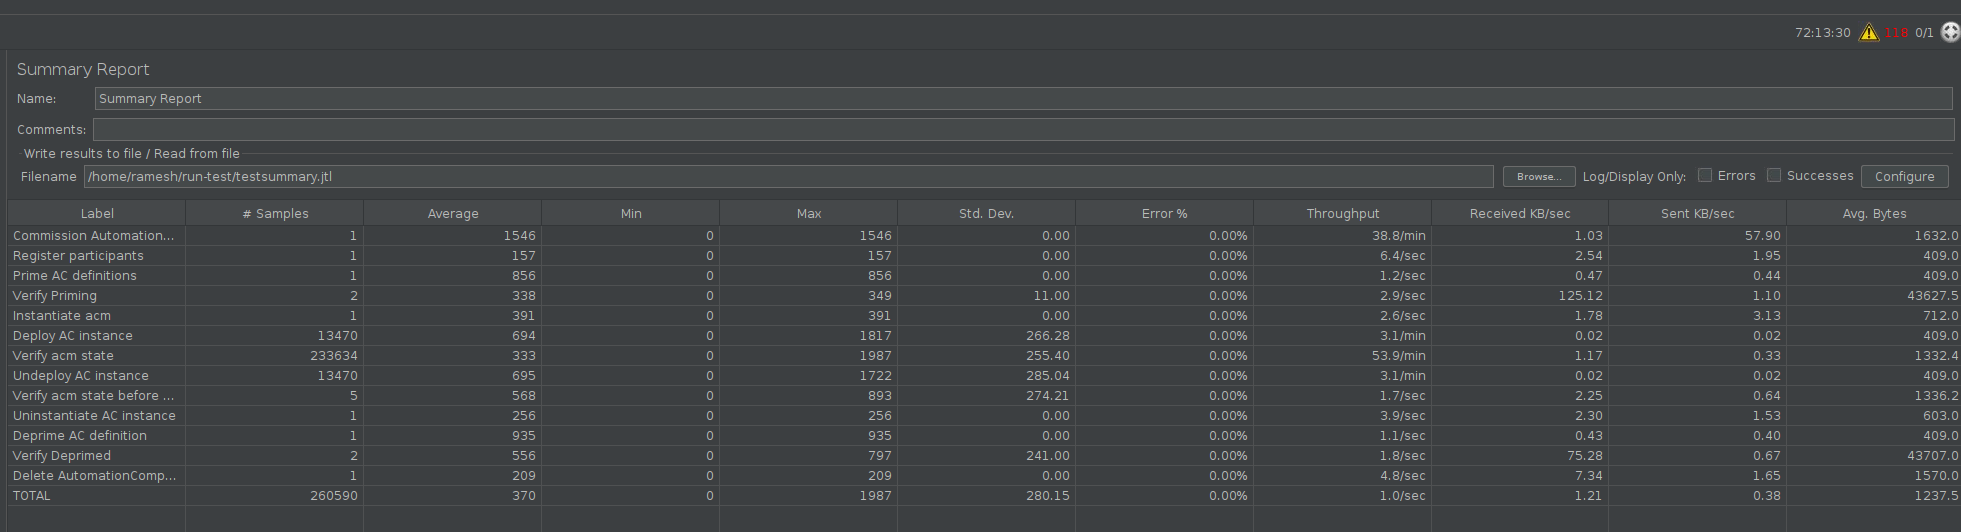
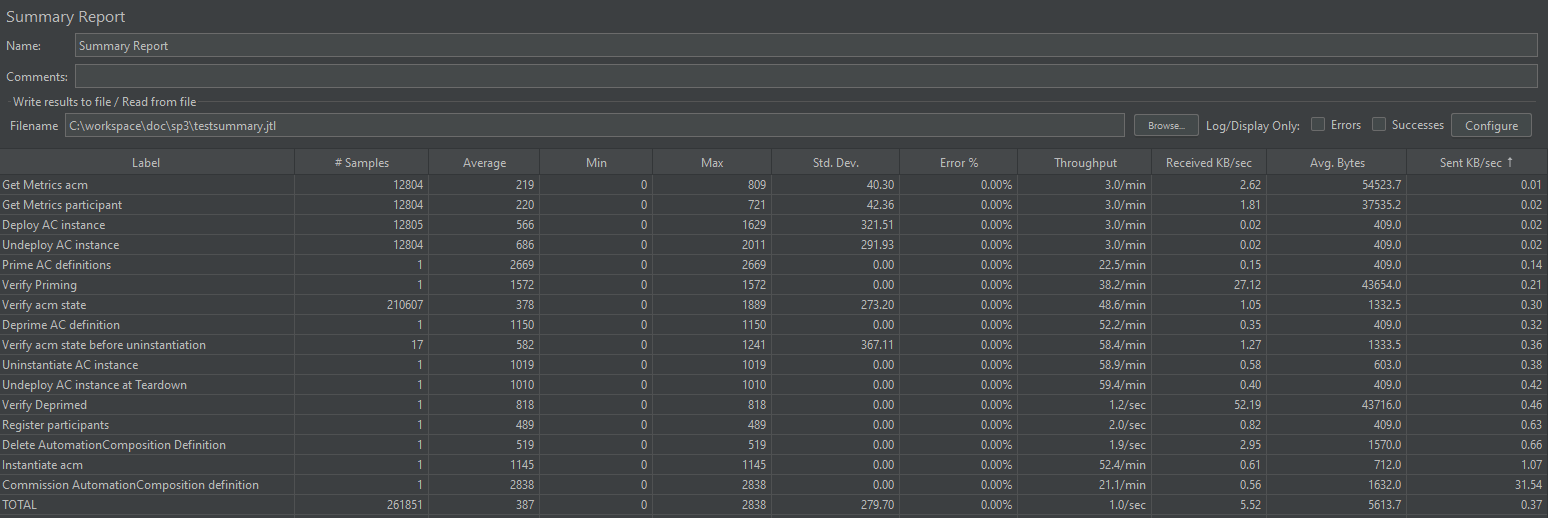
Update docs for S3P testing Clamp
Issue-ID: POLICY-4982

diff --git a/docs/development/devtools/testing/s3p/clamp-s3p.rst b/docs/development/devtools/testing/s3p/clamp-s3p.rst
@@ -37,7 +37,7 @@ The common setup for performance and stability tests is now automated - being ca
 
 Clone the policy-clamp repo to access the test scripts
 
-.. code-block:: bash
+.. code-block:: sh
 
     git clone https://gerrit.onap.org/r/policy/clamp
 
@@ -69,9 +69,9 @@ Run Test
 
 The code in the setup section also serves to run the tests. Just one execution needed to do it all.
 
-.. code-block:: bash
+.. code-block:: sh
 
-    bash run-s3p-test.sh run stability
+    ./run-s3p-test.sh run stability
 
 Once the test execution is completed, the results are present in the **automate-performance/s3pTestResults.jtl** file.
 
@@ -89,24 +89,28 @@ Stability test plan was triggered for 72 hours.
 =======================  =================  ==================  ==================================
 **Total # of requests**  **Success %**      **Error %**         **Average time taken per request**
 =======================  =================  ==================  ==================================
-260590                    100.00 %           0.00 %              997 ms
+261852                    100.00 %           0.00 %              387.126 ms
 =======================  =================  ==================  ==================================
 
 **ACM component Setup**
 
-==============================================  ============================================================    ===========================================
-**NAME**                                        **IMAGE**                                                       **PORT**
-==============================================  ============================================================    ===========================================
- policy-clamp-runtime-acm-5c6d8fbfb-jz8rb       nexus3.onap.org:10001/onap/policy-clamp-runtime-acm:latest      30007/tcp
- policy-clamp-ac-pf-ppnt-55c4cb99f4-spvng       nexus3.onap.org:10001/onap/policy-clamp-ac-pf-ppnt:latest       30008/tcp
- policy-api-58cb45fc9b-ff5md                    nexus3.onap.org:10001/onap/policy-api:latest                    30002/tcp
- policy-clamp-ac-http-ppnt-7b99cbfbf8-d4w9v     nexus3.onap.org:10001/onap/policy-clamp-ac-http-ppnt:latest     30009/tcp
- policy-clamp-ac-k8s-ppnt-6d854cc8b6-twdkh      nexus3.onap.org:10001/onap/policy-clamp-ac-k8s-ppnt:latest      30010/tcp
- policy-models-simulator-bcd494d87-bfg6g        nexus3.onap.org:10001/onap/policy-models-simulator:latest       30904/tcp
- mariadb-galera-0                               nexus3.onap.org:10001/mariadb:10.5.8                            3306/tcp
- policy-pap-847d89997d-x9h99                    nexus3.onap.org:10001/onap/policy-pap:latest                    30003/tcp
- policy-apex-pdp-0                              nexus3.onap.org:10001/onap/policy-apex-pdp:latest               6969/tcp
-==============================================  ============================================================    ===========================================
+==============================================  ==================================================================  ====================
+**NAME**                                        **IMAGE**                                                            **PORT**
+==============================================  ==================================================================  ====================
+ zookeeper-deployment-7ff87c7fcc-ptkwv          confluentinc/cp-zookeeper:latest                                     2181/TCP
+ kafka-deployment-5c87d497b-2jv27               confluentinc/cp-kafka:latest                                         9092/TCP
+ policy-models-simulator-6947667bdc-v4czs       nexus3.onap.org:10001/onap/policy-models-simulator:latest            3904:30904/TCP
+ prometheus-f66f97b6-rknvp                      nexus3.onap.org:10001/prom/prometheus:latest                         9090:30909/TCP
+ mariadb-galera-0                               nexus3.onap.org:10001/bitnami/mariadb-galera:10.5.8                  3306/TCP
+ policy-apex-pdp-0                              nexus3.onap.org:10001/onap/policy-apex-pdp:3.1.3-SNAPSHOT            6969:30001/TCP
+ policy-clamp-ac-http-ppnt-7d747b5d98-4phjf     nexus3.onap.org:10001/onap/policy-clamp-ac-http-ppnt7.1.3-SNAPSHOT   8084/TCP
+ policy-clamp-ac-sim-ppnt-97f487577-4p7ks       nexus3.onap.org:10001/onap/policy-clamp-ac-sim-ppnt7.1.3-SNAPSHOT    6969/TCP
+ policy-clamp-ac-k8s-ppnt-6bbd86bbc6-csknn      nexus3.onap.org:10001/onap/policy-clamp-ac-k8s-ppnt7.1.3-SNAPSHOT    8083:30443/TCP
+ policy-clamp-ac-pf-ppnt-5fcbbcdb6c-twkxw       nexus3.onap.org:10001/onap/policy-clamp-ac-pf-ppnt7.1.3-SNAPSHOT     6969:30008/TCP
+ policy-clamp-runtime-acm-66b5d6b64-4gnth       nexus3.onap.org:10001/onap/policy-clamp-runtime-acm7.1.3-SNAPSHOT    6969:30007/TCP
+ policy-pap-f7899d4cd-7m898                     nexus3.onap.org:10001/onap/policy-pap:3.1.3-SNAPSHOT                 6969:30003/TCP
+ policy-api-7f7d995b4-ckb84                     nexus3.onap.org:10001/onap/policy-api:3.1.3-SNAPSHOT                 6969:30002/TCP
+==============================================  ==================================================================  ====================
 
 
 
@@ -124,14 +128,6 @@ Stability test plan was triggered for 72 hours.
 
 .. image:: clamp-s3p-results/acm_stability_table.png
 
-**Memory and CPU usage**
-
-The memory and CPU usage can be monitored by running "docker stats" command.
-
-Memory and CPU usage after test execution:
-
-.. image:: clamp-s3p-results/Stability_after_stats.png
-
 
 Performance Test of acm components
 ++++++++++++++++++++++++++++++++++
@@ -146,30 +142,45 @@ Setup Details
 
 We can setup the environment and execute the tests like this from the **clamp/testsuites** directory
 
-.. code-block:: bash
+.. code-block:: sh
 
-    bash run-s3p-test.sh run performance
+    ./run-s3p-test.sh run performance
 
-This runs for 2 hours. Test results are present in the **testsuites/automate-performance/s3pTestResults.jtl**
+Test results are present in the **testsuites/automate-performance/s3pTestResults.jtl**
 directory. Logs are present for jmeter in **testsuites/automate-performance/jmeter.log** and
 **testsuites/automated-performance/nohup.out**
 
 Test Plan
 ---------
 
-Performance test plan is the same as the stability test plan above except for the few differences listed below.
+The Performance test ran the following steps sequentially by 5 threaded users. Any user will create 100 compositions/instances.
 
-- Increase the number of threads up to 5 (simulating 5 users' behaviours at the same time).
-- Reduce the test time to 2 hours.
+- **SetUp** - SetUp Thread Group
+   - **Register Participants** - Registers the presence of participants in the acm database
+- **AutomationComposition Test Flow** - flow by 5 threaded users.
+   - **Creation and Deploy** - Creates 100 Compositions and Instances
+      - **Commission Automation Composition Definitions** - Commissions the ACM Definitions
+      - **Prime AC definition** - Primes the AC Definition to the participants
+      - **Instantiate acm** - Instantiate the acm instance
+      - **DEPLOY the ACM instance** - change the state of the acm to DEPLOYED
+      - **Check instance state** - check the current state of instance and that it is DEPLOYED
+   - **Get participants** - fetch all participants
+   - **Get compositions** - fetch all compositions
+   - **Undeploy and Delete** - Deletes instances and Compositions created before
+      - **UNDEPLOY the ACM instance** - change the state of the ACM to UNDEPLOYED
+      - **Check instance state** - check the current state of instance and that it is UNDEPLOYED
+      - **Delete instance** - delete the instance from all participants and ACM db
+      - **DEPRIME ACM definitions** - DEPRIME ACM definitions from participants
+      - **Delete ACM Definition** - delete the ACM definition on runtime
 
 Run Test
 --------
 
 The code in the setup section also serves to run the tests. Just one execution needed to do it all.
 
-.. code-block:: bash
+.. code-block:: sh
 
-    bash run-s3p-test.sh run performance
+    ./run-s3p-test.sh run performance
 
 Once the test execution is completed, the results are present in the **automate-performance/s3pTestResults.jtl** file.
 
@@ -185,24 +196,28 @@ Test results are shown as below.
 =======================  =================  ==================  ==================================
 **Total # of requests**  **Success %**      **Error %**         **Average time taken per request**
 =======================  =================  ==================  ==================================
-15520                    100 %              0.00 %              464 ms
+8624                     100 %              0.00 %              1296.8 ms
 =======================  =================  ==================  ==================================
 
 **ACM component Setup**
 
-==============================================  ============================================================    ===========================================
-**NAME**                                        **IMAGE**                                                       **PORT**
-==============================================  ============================================================    ===========================================
- policy-clamp-runtime-acm-5c6d8fbfb-jz8rb       nexus3.onap.org:10001/onap/policy-clamp-runtime-acm:latest      30007/tcp
- policy-clamp-ac-pf-ppnt-55c4cb99f4-spvng       nexus3.onap.org:10001/onap/policy-clamp-ac-pf-ppnt:latest       30008/tcp
- policy-api-58cb45fc9b-ff5md                    nexus3.onap.org:10001/onap/policy-api:latest                    30002/tcp
- policy-clamp-ac-http-ppnt-7b99cbfbf8-d4w9v     nexus3.onap.org:10001/onap/policy-clamp-ac-http-ppnt:latest     30009/tcp
- policy-clamp-ac-k8s-ppnt-6d854cc8b6-twdkh      nexus3.onap.org:10001/onap/policy-clamp-ac-k8s-ppnt:latest      30010/tcp
- policy-models-simulator-bcd494d87-bfg6g        nexus3.onap.org:10001/onap/policy-models-simulator:latest       30904/tcp
- mariadb-galera-0                               nexus3.onap.org:10001/mariadb:10.5.8                            3306/tcp
- policy-pap-847d89997d-x9h99                    nexus3.onap.org:10001/onap/policy-pap:latest                    30003/tcp
- policy-apex-pdp-0                              nexus3.onap.org:10001/onap/policy-apex-pdp:latest               6969/tcp
-==============================================  ============================================================    ===========================================
+==============================================  ==================================================================  ====================
+**NAME**                                        **IMAGE**                                                            **PORT**
+==============================================  ==================================================================  ====================
+ zookeeper-deployment-7ff87c7fcc-5svgw          confluentinc/cp-zookeeper:latest                                     2181/TCP
+ kafka-deployment-5c87d497b-hmbhc               confluentinc/cp-kafka:latest                                         9092/TCP
+ policy-models-simulator-6947667bdc-crcwq       nexus3.onap.org:10001/onap/policy-models-simulator:latest            3904:30904/TCP
+ prometheus-f66f97b6-24dvx                      nexus3.onap.org:10001/prom/prometheus:latest                         9090:30909/TCP
+ mariadb-galera-0                               nexus3.onap.org:10001/bitnami/mariadb-galera:10.5.8                  3306/TCP
+ policy-apex-pdp-0                              nexus3.onap.org:10001/onap/policy-apex-pdp:3.1.3-SNAPSHOT            6969:30001/TCP
+ policy-clamp-ac-sim-ppnt-97f487577-pn56t       nexus3.onap.org:10001/onap/policy-clamp-ac-sim-ppnt7.1.3-SNAPSHOT    6969/TCP
+ policy-clamp-ac-http-ppnt-7d747b5d98-qjjlv     nexus3.onap.org:10001/onap/policy-clamp-ac-http-ppnt7.1.3-SNAPSHOT   8084/TCP
+ policy-clamp-ac-k8s-ppnt-6bbd86bbc6-ffbz2      nexus3.onap.org:10001/onap/policy-clamp-ac-k8s-ppnt7.1.3-SNAPSHOT    8083:30443/TCP
+ policy-clamp-ac-pf-ppnt-5fcbbcdb6c-vmsnv       nexus3.onap.org:10001/onap/policy-clamp-ac-pf-ppnt7.1.3-SNAPSHOT     6969:30008/TCP
+ policy-clamp-runtime-acm-66b5d6b64-6vjl5       nexus3.onap.org:10001/onap/policy-clamp-runtime-acm7.1.3-SNAPSHOT    6969:30007/TCP
+ policy-pap-f7899d4cd-8sjk9                     nexus3.onap.org:10001/onap/policy-pap:3.1.3-SNAPSHOT                 6969:30003/TCP
+ policy-api-7f7d995b4-dktdw                     nexus3.onap.org:10001/onap/policy-api:3.1.3-SNAPSHOT                 6969:30002/TCP
+==============================================  ==================================================================  ====================
 
 **JMeter Screenshot**
 
